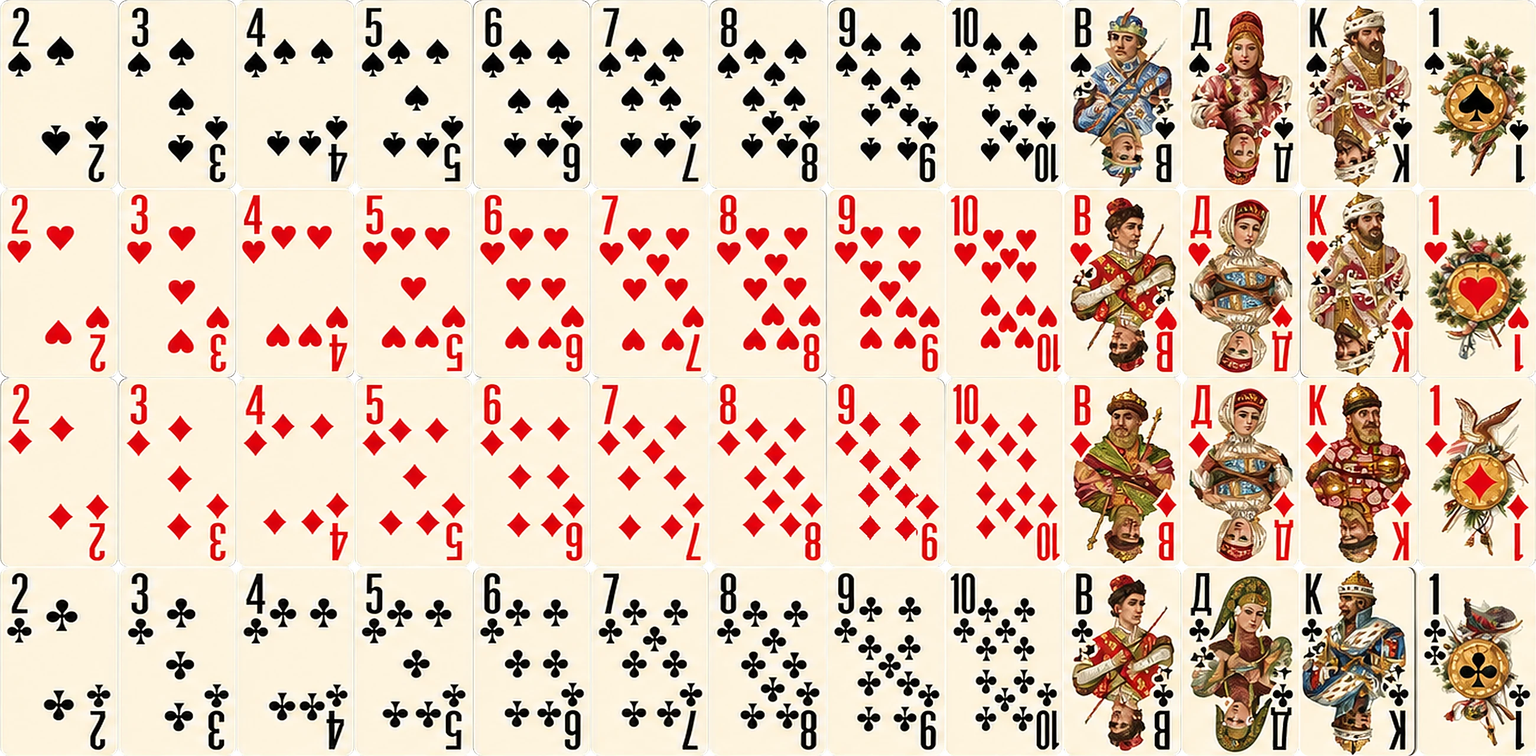
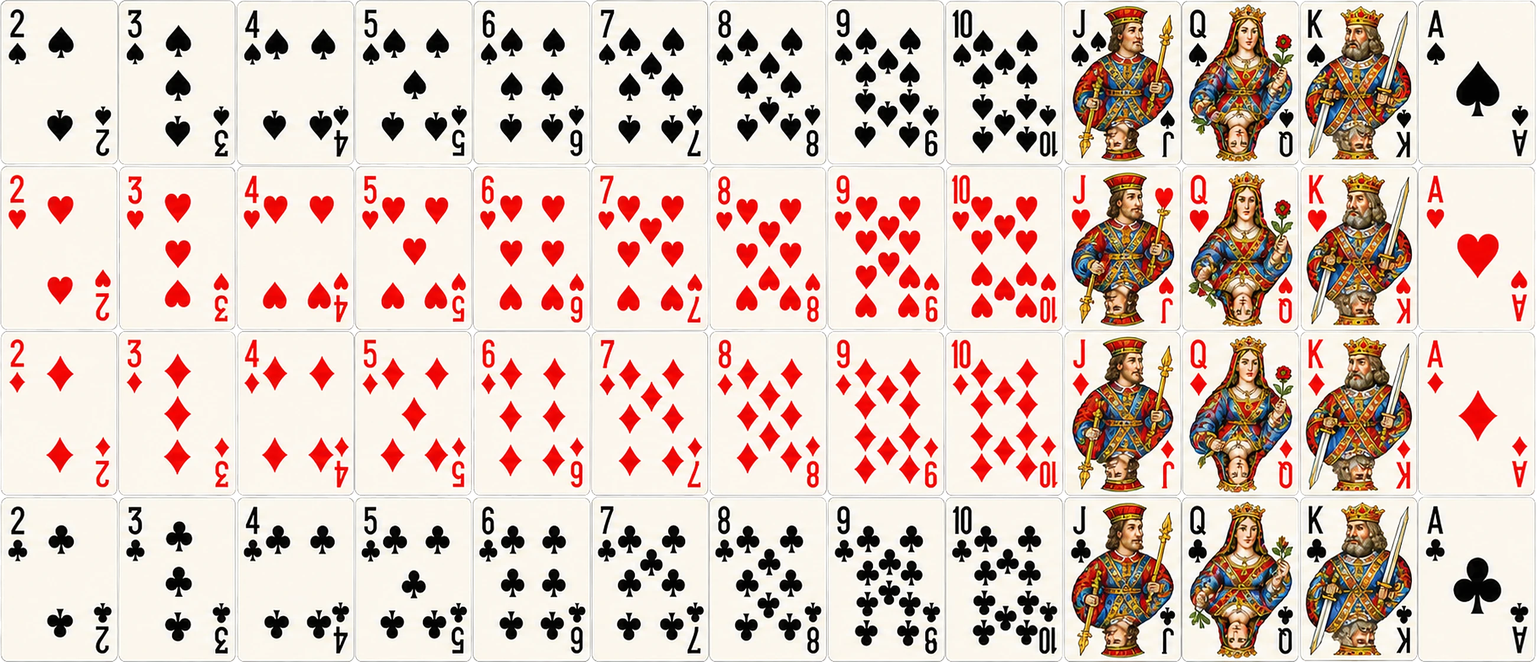
Arena: new main deck — full 52 cards from the corrected sheet
All 52 cards (A, 2…10, J, Q, K in ♦♠♥♣) cut from the supplied sheet
along its transparent edges into the 13×4 sprite (deck.webp). The new
cards are about 1.4 times taller than wide, so CARD_RATIO is back to 1.4
and the table, pairs and hand follow.

Claude-Session: https://claude.ai/code/session_01JT1XjQap1mSayXz8AdUt4o

diff --git a/arena/apps/web/src/app.css b/arena/apps/web/src/app.css
@@ -366,7 +366,7 @@ select.app-input { appearance: none; }
 }
 
 .felt { position: relative; flex: 1; min-height: 0; display: grid; place-items: center; }
-.felt__deck, .felt__discard { position: absolute; top: 14%; width: calc(var(--card-w) * 0.9); height: calc(var(--card-w) * 1.44); }
+.felt__deck, .felt__discard { position: absolute; top: 14%; width: calc(var(--card-w) * 0.9); height: calc(var(--card-w) * 1.26); }
 .felt__deck { left: calc(var(--card-w) * -0.42); }
 .felt__discard { right: calc(var(--card-w) * -0.5); }
 .felt__trump { position: absolute; left: calc(var(--card-w) * 0.34); top: calc(var(--card-w) * 0.2); rotate: 90deg; z-index: 0; }
@@ -385,7 +385,7 @@ select.app-input { appearance: none; }
 .felt__discard-pile { position: absolute; inset: 0; }
 .felt__discard-pile > span { position: absolute; left: 0; top: 0; }
 .felt__pairs { display: flex; flex-wrap: wrap; justify-content: center; align-content: center; gap: 16px 20px; max-width: calc(var(--card-w) * 3 + 70px); padding: 0 8px; }
-.pair { position: relative; width: var(--card-w); height: calc(var(--card-w) * 1.6 + 18px); }
+.pair { position: relative; width: var(--card-w); height: calc(var(--card-w) * 1.4 + 18px); }
 .pair > span { position: absolute; left: 0; top: 0; }
 .pair__attack { rotate: -3deg; }
 .pair__defense { transform: translate(14px, 16px) rotate(7deg); }
@@ -492,7 +492,7 @@ select.app-input { appearance: none; }
 
 /* Stage 4: seats on an arc, transfer slot, turn cue, win/lose effects */
 .transfer-slot {
-  width: var(--card-w); height: calc(var(--card-w) * 1.6); border-radius: 10px;
+  width: var(--card-w); height: calc(var(--card-w) * 1.4); border-radius: 10px;
   display: flex; flex-direction: column; align-items: center; justify-content: center; gap: 4px;
   border: 2.5px dashed rgba(255, 255, 255, 0.6); color: rgba(255, 255, 255, 0.7); font-size: 11px; font-weight: 800;
 }

diff --git a/arena/packages/ui/src/PlayingCard.tsx b/arena/packages/ui/src/PlayingCard.tsx
@@ -21,7 +21,7 @@ const SPRITE_RANKS = ['2', '3', '4', '5', '6', '7', '8', '9', '10', 'J', 'Q', 'K
 const SPRITE_SUITS = ['S', 'H', 'D', 'C'] as const;
 const DECK_URL = '/cards/deck.webp';
 /** Height / width of every card (faces and backs) — the illustrated deck is a tall one. */
-export const CARD_RATIO = 1.6;
+export const CARD_RATIO = 1.4;
 
 /**
  * Downloads and decodes the deck sprite (and the chosen back) once, keeping them in memory so
